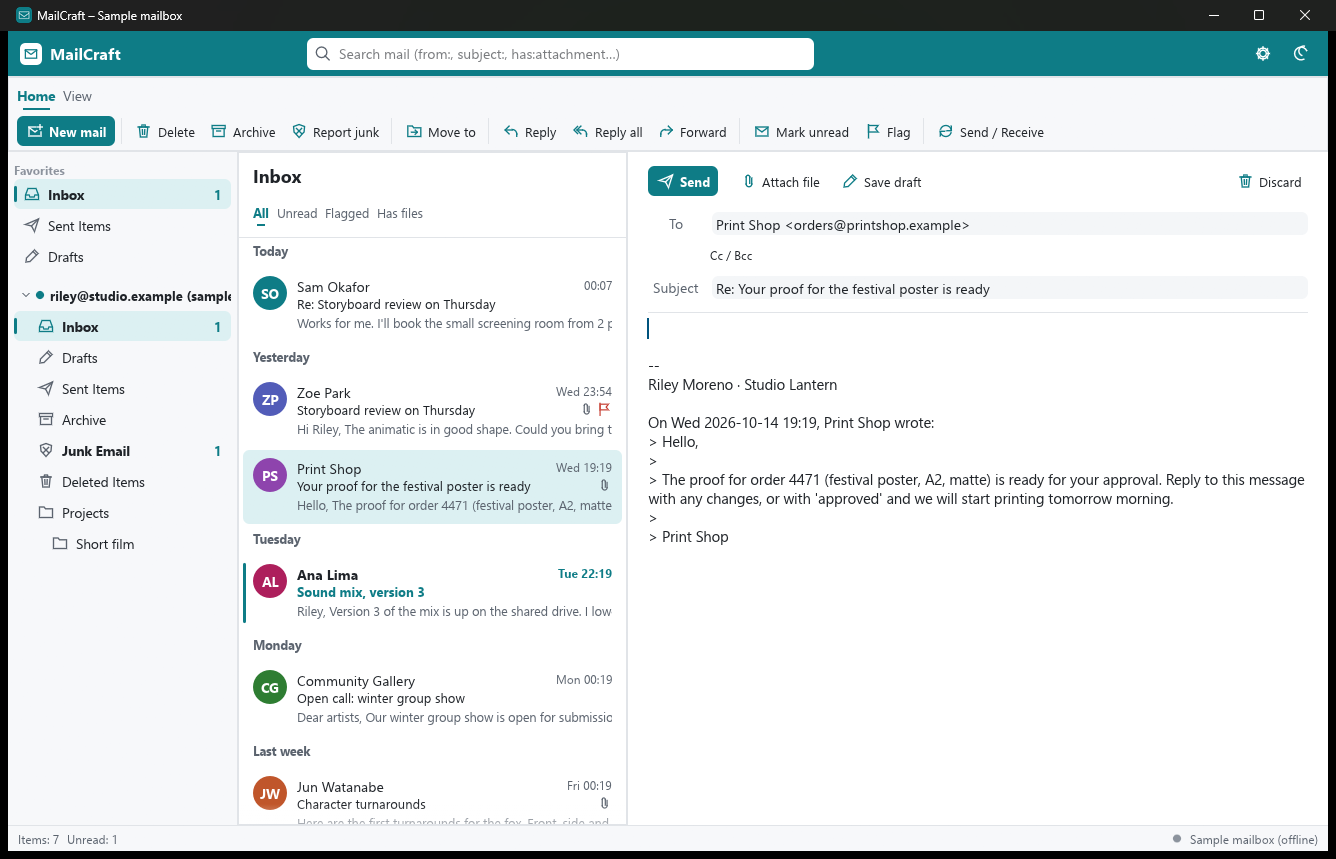
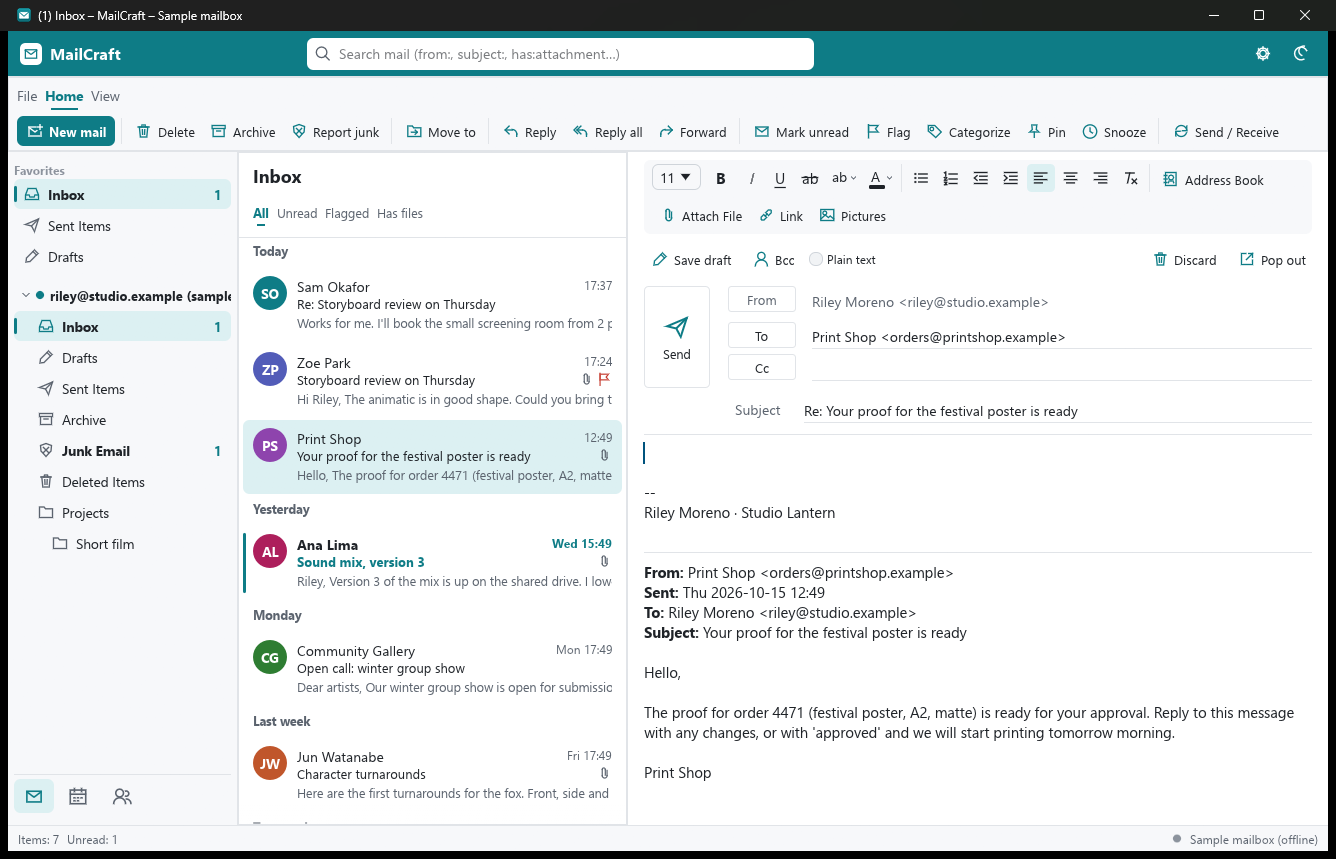
Docs: the README screenshots show today's MailCraft

diff --git a/README.md b/README.md
@@ -22,13 +22,13 @@
 </p>
 
 <p align="center">
-  <img src="docs/images/reading.png" alt="MailCraft with the sample mailbox: the folder pane on the left with Favorites and the account's folders and unread counts, the Inbox grouped under Today, Yesterday, Tuesday, Monday and Last week, and the reading pane showing a flagged message with its two-message conversation, sender card, Reply buttons and a picture attachment with a preview" width="100%">
+  <img src="docs/images/reading.png" alt="MailCraft with the sample mailbox: the folder pane on the left with Favorites and the account's folders and unread counts, the ribbon with Categorize, Pin and Snooze, the Inbox grouped under Today, Yesterday, Monday and Last week, and the reading pane showing a flagged message with its two-message conversation, sender card, Reply, Print and Save buttons and a picture attachment with a preview" width="100%">
 </p>
 
 <table>
 <tr>
-<td width="50%"><img src="docs/images/search-dark.png" alt="Dark mode with a search for storyboard across all folders, the results grouped as a conversation" width="100%"><p align="center"><sub><b>Search</b> across every folder, offline, with <code>from:</code>, <code>subject:</code>, <code>has:attachment</code>, <code>is:unread</code>; conversations; dark mode.</sub></p></td>
-<td width="50%"><img src="docs/images/compose.png" alt="Writing a reply in the reading pane: Send, Attach file, Save draft and Discard, the To and Subject fields filled in, the cursor above the signature and the quoted original" width="100%"><p align="center"><sub><b>Write</b> in place: replies quote the original under your signature, with attachments, Cc/Bcc and drafts.</sub></p></td>
+<td width="50%"><img src="docs/images/search-dark.png" alt="Dark mode with a search for storyboard across all folders, both messages of the conversation found and the reply open" width="100%"><p align="center"><sub><b>Search</b> across every folder, offline, with <code>from:</code>, <code>subject:</code>, <code>has:attachment</code>, <code>is:unread</code>; conversations; dark mode.</sub></p></td>
+<td width="50%"><img src="docs/images/compose.png" alt="Writing a reply in the reading pane: the formatting toolbar, Attach File, Link and Pictures, Save draft, Bcc, Discard and Pop out, the From, To and Subject fields filled in, the cursor above the signature and the original message below" width="100%"><p align="center"><sub><b>Write</b> in place: replies quote the original under your signature, with attachments, Cc/Bcc and drafts.</sub></p></td>
 </tr>
 </table>
 
